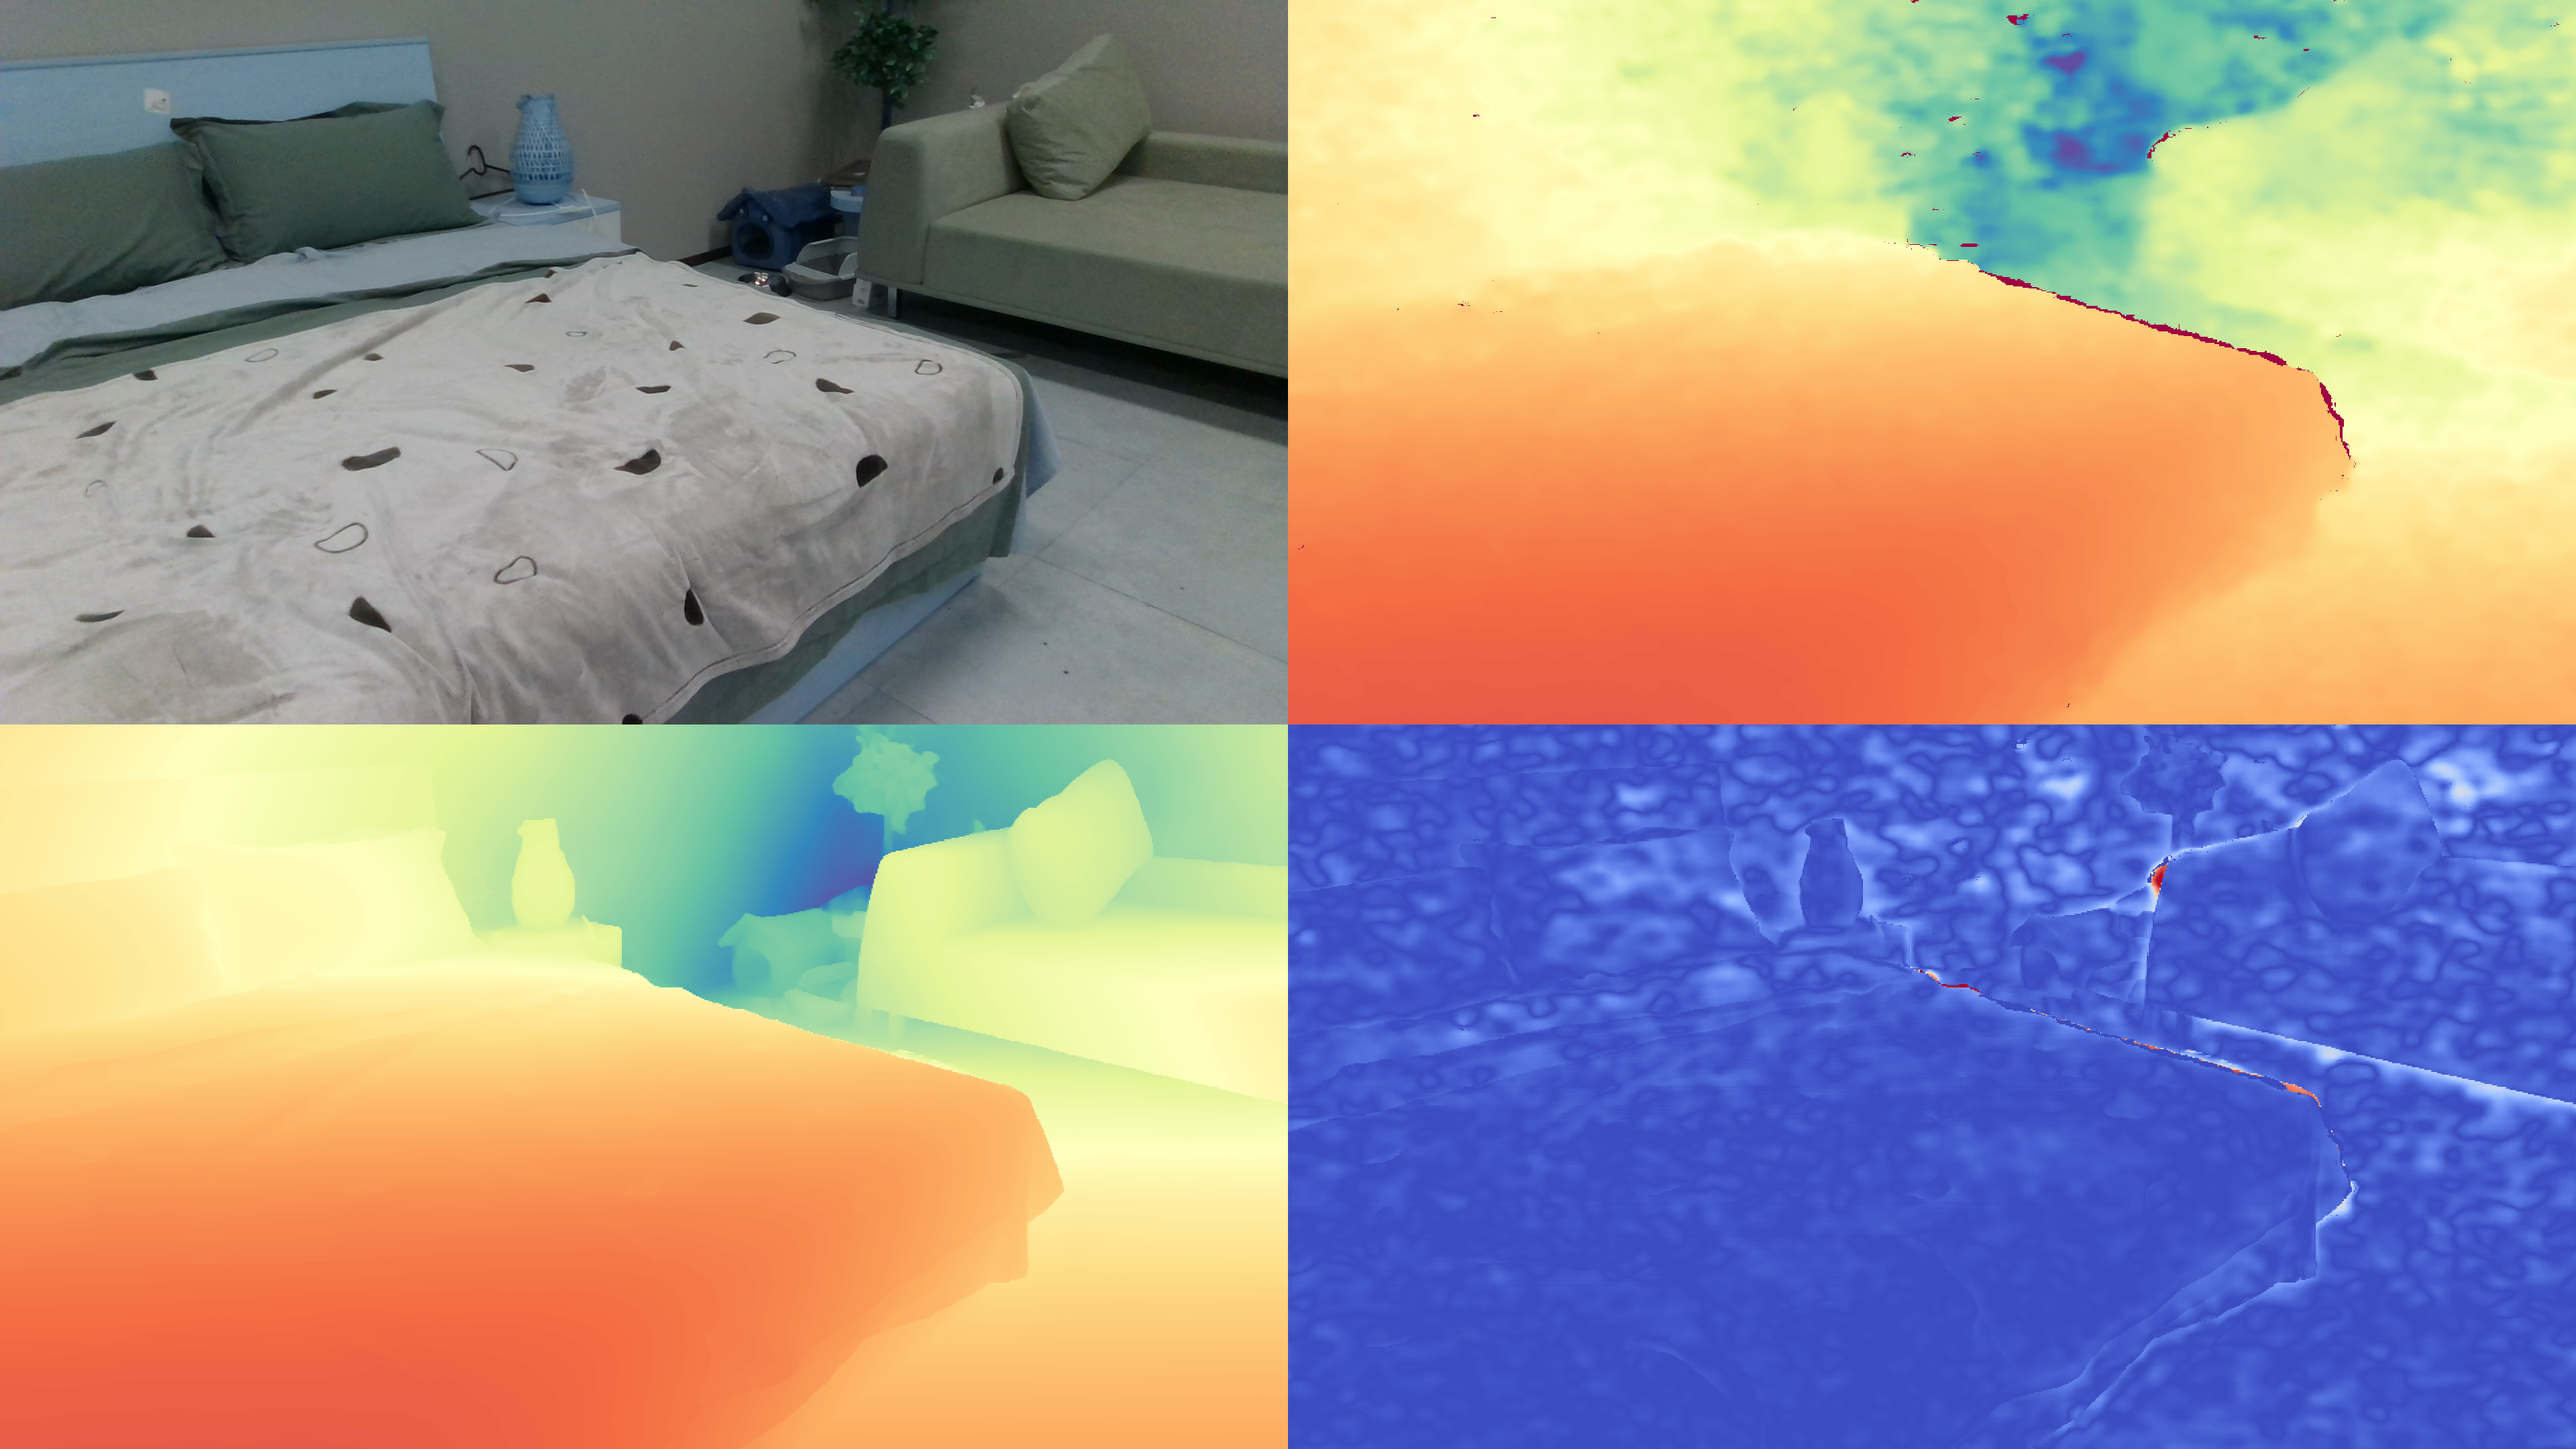
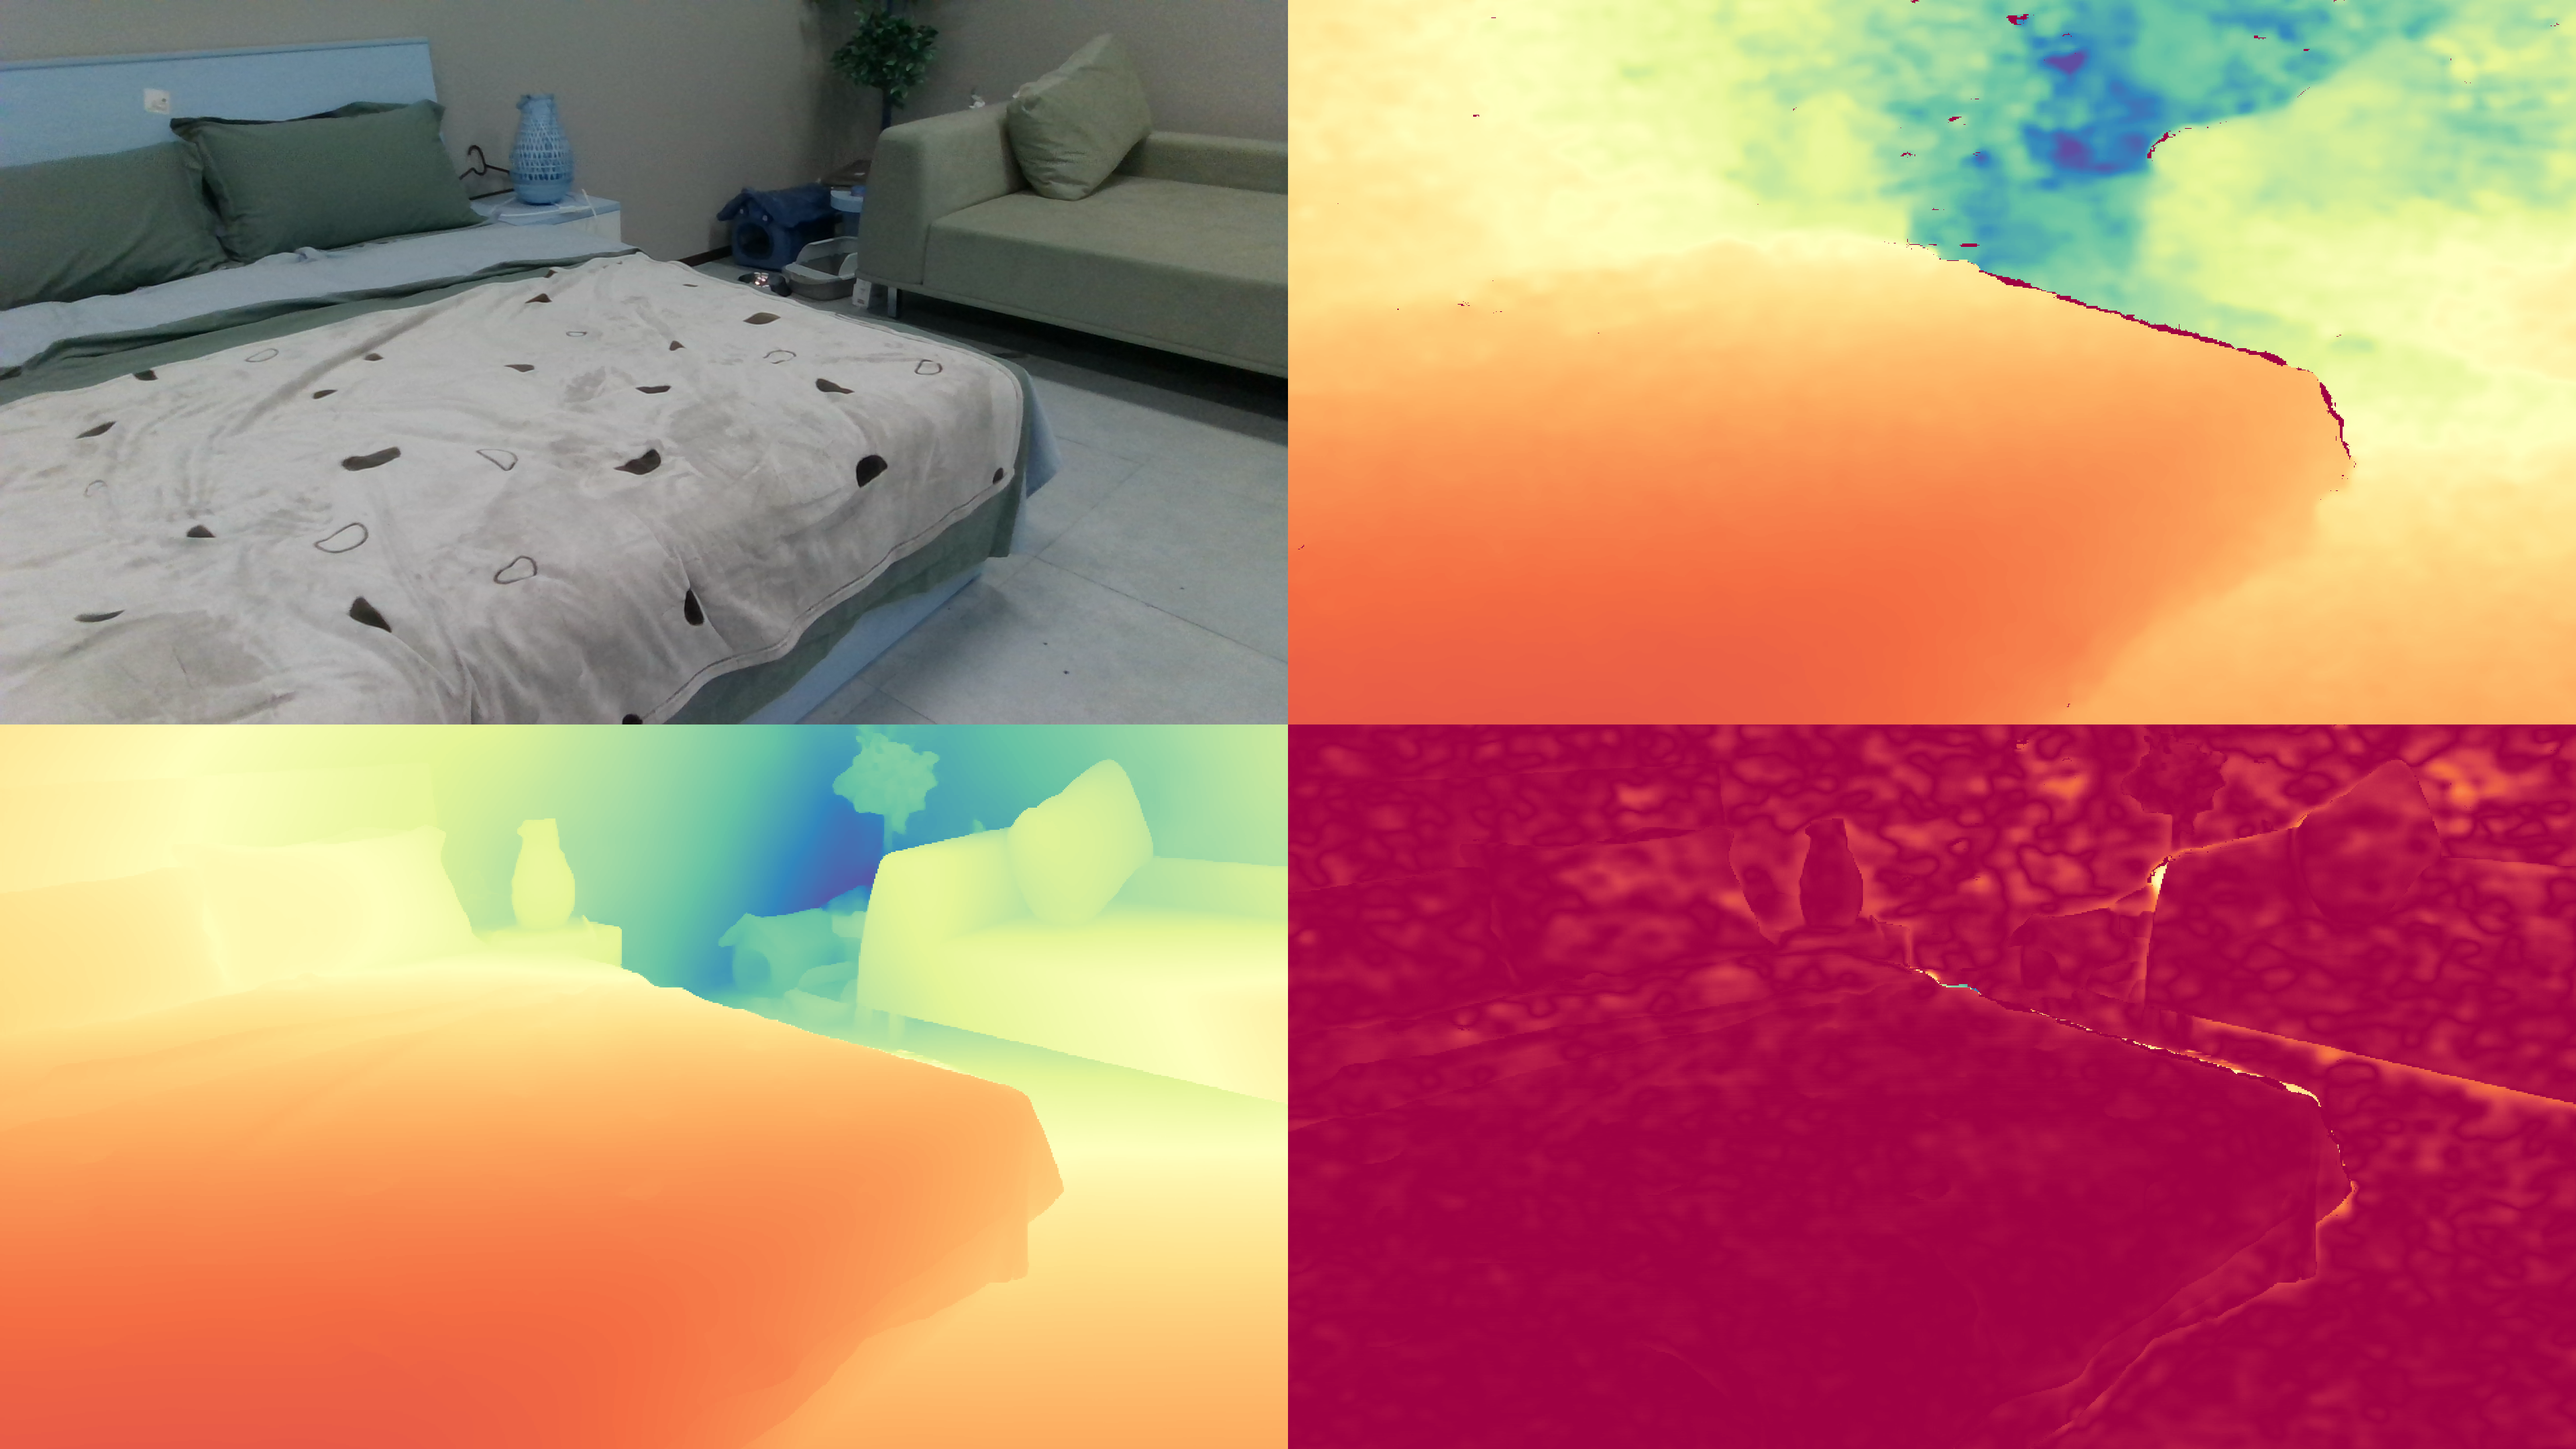
update relative error

Changed region(s): [[0.5, 0.4963, 1.0, 1.0]]

diff --git a/cdm/infer.py b/cdm/infer.py
@@ -316,7 +316,6 @@ def colorize_depth_maps(
 
     return img_colored_np
 
-
 def create_visualization(rgb_src, depth_rs, simi_depth, pred, image_min, image_max):
     """Create a 2x2 grid visualization comparing input and predicted depth.
 
@@ -333,37 +332,37 @@ def create_visualization(rgb_src, depth_rs, simi_depth, pred, image_min, image_m
             - Bottom-left: Predicted depth (colorized)
             - Bottom-right: Relative error map (colorized)
     """
-    # 将RGB图像转换为BGR格式以便显示
+    # Convert RGB image to BGR format for display
     rgb_display = cv2.cvtColor(rgb_src, cv2.COLOR_RGB2BGR)
 
-    # 使用colorize_depth_maps函数为深度图着色
-    # 预测深度图着色
+    # Use colorize_depth_maps function to colorize depth maps
+    # Colorize predicted depth map
     pred_colored = colorize_depth_maps(
         pred, min_depth=image_min, max_depth=image_max, cmap="Spectral"
     )
-    pred_colored = np.rollaxis(pred_colored[0], 0, 3)  # 从[C,H,W]转换为[H,W,C]
+    pred_colored = np.rollaxis(pred_colored[0], 0, 3)  # Convert from [C,H,W] to [H,W,C]
     pred_colored = (pred_colored * 255).astype(np.uint8)
 
-    # 真实深度图着色
+    # Colorize ground truth depth map
     depth_colored = colorize_depth_maps(
         depth_rs, min_depth=image_min, max_depth=image_max, cmap="Spectral"
     )
-    depth_colored = np.rollaxis(depth_colored[0], 0, 3)  # 从[C,H,W]转换为[H,W,C]
+    depth_colored = np.rollaxis(depth_colored[0], 0, 3)  # Convert from [C,H,W] to [H,W,C]
     depth_colored = (depth_colored * 255).astype(np.uint8)
 
-    # 计算相对误差
+    # Calculate relative error
     depth_error = np.zeros_like(depth_rs)
-    valid = depth_rs > 0  # 只计算有效深度像素的误差
+    valid = depth_rs > 0  # Only calculate error for valid depth pixels
     depth_error[valid] = np.abs(depth_rs[valid] - pred[valid]) / depth_rs[valid]
 
-    # 误差图着色
+    # Colorize error map
     error_colored = colorize_depth_maps(
-        depth_error, min_depth=0, max_depth=0.5, cmap="coolwarm"
+        depth_error, min_depth=0, max_depth=1, cmap="Spectral"
     )
-    error_colored = np.rollaxis(error_colored[0], 0, 3)  # 从[C,H,W]转换为[H,W,C]
+    error_colored = np.rollaxis(error_colored[0], 0, 3)  # Convert from [C,H,W] to [H,W,C]
     error_colored = (error_colored * 255).astype(np.uint8)
 
-    # 排列所有可视化结果为2x2网格
+    # Arrange all visualizations in a 2x2 grid
     return image_grid([rgb_display, depth_colored, pred_colored, error_colored], 2, 2)
 
 
